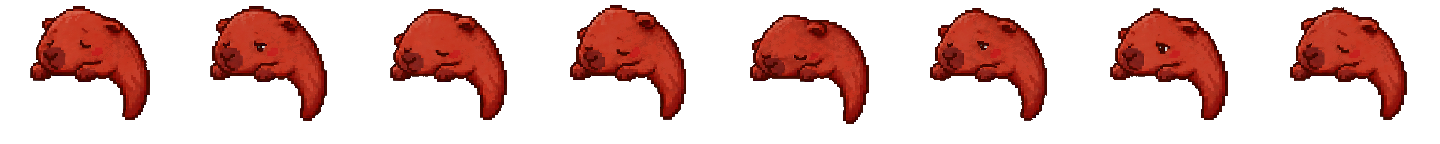
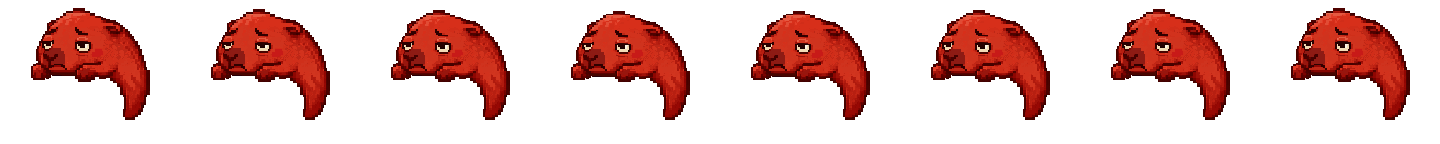
Mascot 0.3.4: calmer animation, slumped overdue

diff --git a/index.html b/index.html
@@ -20,7 +20,7 @@
 <meta name="twitter:card" content="summary_large_image">
 <link rel="icon" type="image/png" href="img/favicon.png">
 <link rel="apple-touch-icon" href="img/favicon.png">
-<link rel="stylesheet" href="style.css?v=20260918-fps8">
+<link rel="stylesheet" href="style.css?v=20260918-fps5">
 </head>
 <body class="home">
 <a class="skip-link" href="#preview">Skip to the interactive preview</a>
@@ -417,7 +417,7 @@
                 <p class="sheet-facts">
                     <span id="sheet-moods"></span>
                     <span class="dotsep">·</span>
-                    <span>8 fps</span>
+                    <span>5 fps</span>
                     <span class="dotsep">·</span>
                     <span id="sheet-price"></span>
                 </p>
@@ -455,7 +455,7 @@
                 <span class="sprite expressive sprite--worried" style="--fw:150px; margin:0 auto 14px" aria-hidden="true"></span>
                 <h3>The format, in one breath</h3>
                 <p class="muted" style="margin:0">
-                    PNG with alpha. Frames left‑to‑right in one row. Eight frames a second,
+                    PNG with alpha. Frames left‑to‑right in one row. Five frames a second,
                     always. Urgency is yours to draw, not ours to fake. 4–8 frames per
                     mood is the sweet spot.
                 </p>
@@ -472,23 +472,22 @@
             <h2>Get Mascot for your Mac.</h2>
             <p class="muted">Free for Apple silicon Macs (M1 or later), running macOS 14 or newer.</p>
             <ul class="release-details" aria-label="Current release">
-                <li><strong data-version>Version 0.3.3</strong></li>
-                <li>Released <time data-released datetime="2026-09-18">18 September 2026</time></li>
+                <li><strong data-version>Version 0.3.4</strong></li>
+                <li>Released <time data-released datetime="2026-10-05">5 October 2026</time></li>
                 <li>Early preview</li>
             </ul>
             <!-- Kept on this page. The GitHub release page it used to link to
                  shows two automatic "Source code" zips beside Mascot.zip, and
                  a student who downloads one of those gets website files. -->
             <details class="whats-new">
-                <summary>What’s new in <span data-version-number>0.3.3</span></summary>
+                <summary>What’s new in <span data-version-number>0.3.4</span></summary>
                 <ul data-highlights>
-                    <li>Your mascot moves at a calmer pace: 8 frames a second instead of 10.</li>
-                    <li>Reminders with long assignment names now show the Snooze and Open buttons.</li>
-                    <li>The reminder bubble floats above the Dock instead of sitting behind it.</li>
+                    <li>Animations are calmer: 5 frames a second instead of 10.</li>
+                    <li>Your mascot reacts when things change: a hop when a deadline gets closer, a wiggle when you hand work in.</li>
+                    <li>Overdue now looks slumped and defeated instead of asleep.</li>
+                    <li>Reminders with long assignment names show the Snooze and Open buttons, and the bubble floats above the Dock.</li>
                     <li>When your school blocks Classroom, Mascot links a page you can send to your school’s IT.</li>
-                    <li>Sign-in stops waiting after 2 minutes if Google has blocked it.</li>
-                    <li>Uses less battery while idle, and pauses its animation when your screen is off.</li>
-                    <li>Works with the Dock on the left or right side of the screen.</li>
+                    <li>Uses less battery while idle, and works with the Dock on the left or right side of the screen.</li>
                     <li>Mascot Studio is put away for now, while the pack tools are finished.</li>
                 </ul>
             </details>

diff --git a/style.css b/style.css
@@ -121,7 +121,7 @@ a  { color: var(--brand-2); }
 
 /* ---------- sprites ----------
    A sheet is N frames in one row. --fw is the rendered frame width; the frame is
-   180x144 so height follows at 0.8. Frames advance at the app's own 8 fps. */
+   180x144 so height follows at 0.8. Frames advance at the app's own 5 fps. */
 .sprite {
     --fw: 90px;
     --frames: 8;
@@ -133,7 +133,7 @@ a  { color: var(--brand-2); }
     background-position: 0 0;
     image-rendering: pixelated;
     image-rendering: crisp-edges;
-    animation: sprite-play calc(var(--frames) * 0.125s) steps(var(--frames)) infinite;
+    animation: sprite-play calc(var(--frames) * 0.2s) steps(var(--frames)) infinite;
 }
 @keyframes sprite-play { to { background-position: calc(var(--fw) * var(--frames) * -1) 0; } }
 
